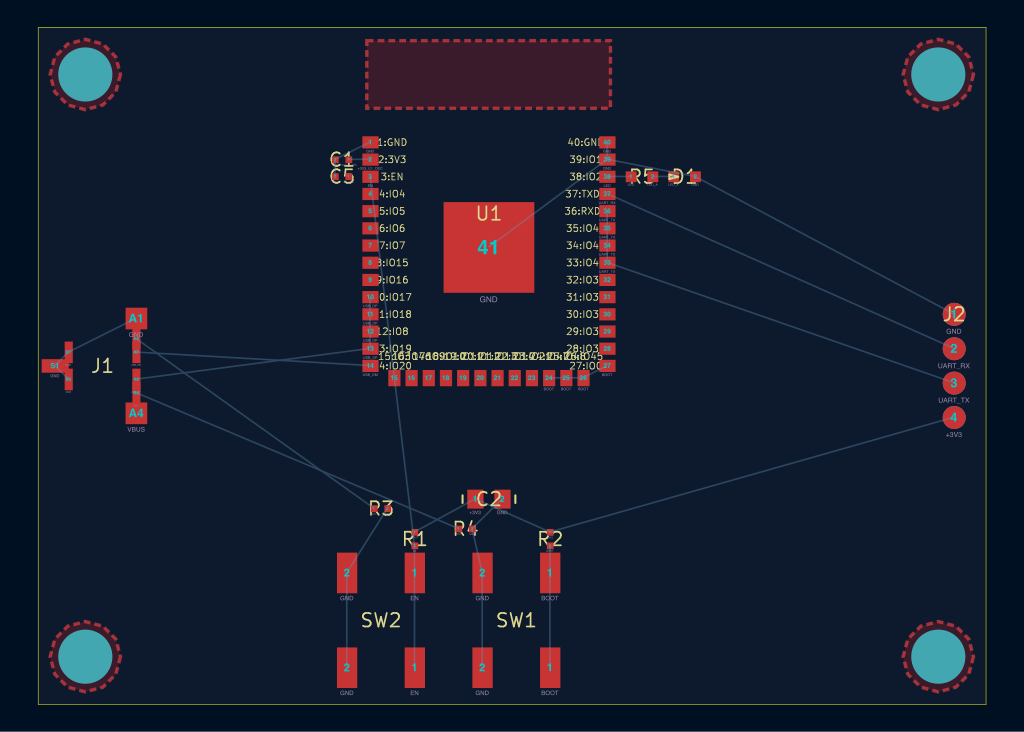
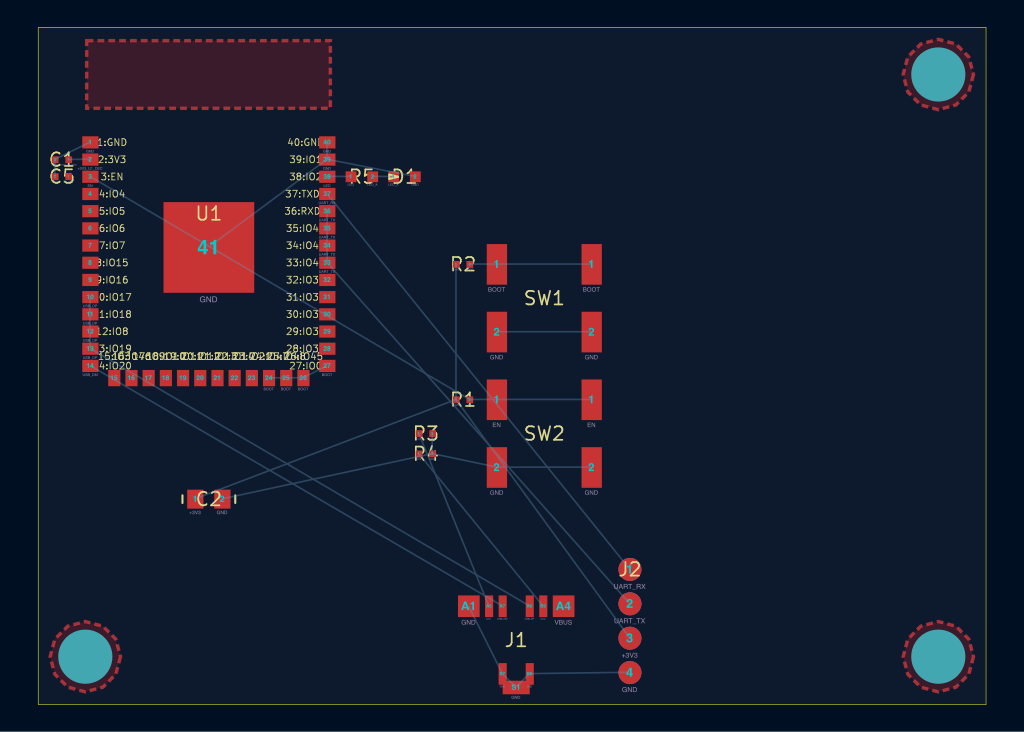
feat(placement_v2): edge-pinned cells lift whole; edge force-place
Floorplan iteration on nl-s-3c (129 components) — structural Gate A
violations cleared (72 -> 52, zero forefield/EdgePin/keepout left):

- pipeline: EVERY edge-pinned cell lifts to board level, not just
  singletons — a multi-member harness-terminal cell stayed in its
  functional group and stranded 23mm inland with the analog group in
  its forefield (45 violations from ONE decision); the ESP32 cell now
  claims its own edge with its decoupling island aboard. body_dirs aim
  by the PINNED member's opening, rotated by its in-cell pose.
- floorplan: when NO edge has a free interval, the connector force-
  places flush on its preferred edge and legalization pushes interior
  groups (edge presence is the hard constraint; 'stays put' was
  polite but wrong). Openingless headers lay their long axis ALONG
  the edge (a 1x14 header sat flush but perpendicular, 37mm deep).
  Edge choice prefers the pose needing NO rotation — rotating an
  ESP32 to a nearer edge flips its pin geometry against every
  ordered header pinout.
- mcu trainer: J2 pinout recomputed for the new (south-edge) pose —
  free-pin orders are placement-coupled; the fanout permutation
  optimizer is the documented recompute path. All 5 trainers green.

nl-s-3c remaining: 42 fanout crossings + 6 bundle crossings at FIXED-
pinout connectors (engine harness J1 -> relay row, display header J14
-> ESP32) + 4 near-miss chain bounds. Those pinouts are external
[…]

diff --git a/src/kicad_pipeline/placement_v2/floorplan.py b/src/kicad_pipeline/placement_v2/floorplan.py
@@ -746,7 +746,24 @@ def _place_conn_groups(
             Edge.NORTH: b0[1], Edge.SOUTH: bh - b0[3],
         }
         pref = preferred.get(cells[i].cell.name)
-        edges = sorted(Edge, key=lambda e: (e is not pref, dists[e], e.value))
+        bdir0 = body_dirs.get(cells[i].cell.name)
+
+        def _needs_rotation(e: Edge) -> bool:
+            """Does facing *e* require rotating away from the current pose?
+
+            Rotation stability: an ESP32 whose antenna already points
+            north should claim the north edge over a nearer west edge —
+            rotating flips its pin geometry relative to every already-
+            ordered header pinout (mcu_core regression, 2026-06-11).
+            """
+            if bdir0 is None:
+                return False
+            nx, ny = normals[e]
+            return bdir0[0] * nx + bdir0[1] * ny < 1e-9
+
+        edges = sorted(
+            Edge, key=lambda e: (e is not pref, _needs_rotation(e), dists[e], e.value),
+        )
         for edge in edges:
             pc = cells[i]
             bdir = body_dirs.get(pc.cell.name)
@@ -762,6 +779,16 @@ def _place_conn_groups(
                     if dot > best_dot + 1e-9:
                         best_dot, best_rot = dot, rot
                 pc = pc.rotated(best_rot)
+            else:
+                # No opening (symmetric pin header): lay the LONG axis
+                # along the edge — a 1x14 header once sat flush south
+                # but rotated perpendicular, jutting 37mm into the
+                # board (nl-s-3c, 2026-06-11).
+                bb0 = polygon_bbox(pc.polygon_in_board())
+                tall = (bb0[3] - bb0[1]) > (bb0[2] - bb0[0])
+                wants_horizontal = edge in (Edge.NORTH, Edge.SOUTH)
+                if tall == wants_horizontal:
+                    pc = pc.rotated(90)
             b = polygon_bbox(pc.polygon_in_board())
             horizontal = edge in (Edge.NORTH, Edge.SOUTH)
             span = (b[2] - b[0]) if horizontal else (b[3] - b[1])
@@ -807,7 +834,39 @@ def _place_conn_groups(
                 if abs(pos - cur_lo) < best_dist - 1e-9:
                     best_dist, best_pos = abs(pos - cur_lo), pos
             if best_pos is None:
-                continue  # no room on this edge: try the next
+                if edge is not edges[-1]:
+                    continue  # no room on this edge: try the next
+                # NO edge has a free interval: force-place flush on the
+                # PREFERRED edge at the nearest along-position anyway —
+                # edge presence is the hard constraint; the overlap is
+                # pushed onto INTERIOR groups by legalization (conn
+                # groups are pinned). 'Stays put' once stranded a 6-pin
+                # harness terminal 23mm inland with a whole group in
+                # its forefield (nl-s-3c, 2026-06-11).
+                edge = pref if pref is not None else edges[0]
+                pc = cells[i]
+                bdir2 = body_dirs.get(pc.cell.name)
+                if bdir2 is not None:
+                    nx, ny = normals[edge]
+                    fb_rot: CardinalRotation = 0
+                    fb_dot = -float("inf")
+                    for rot in _ROTATIONS:
+                        pts = transform_polygon(
+                            (Point(bdir2[0], bdir2[1]),), 0.0, 0.0, -float(rot),
+                        )
+                        dot = pts[0].x * nx + pts[0].y * ny
+                        if dot > fb_dot + 1e-9:
+                            fb_dot, fb_rot = dot, rot
+                    pc = pc.rotated(fb_rot)
+                b = polygon_bbox(pc.polygon_in_board())
+                horizontal = edge in (Edge.NORTH, Edge.SOUTH)
+                span = (b[2] - b[0]) if horizontal else (b[3] - b[1])
+                limit = bw if horizontal else bh
+                cur_lo = b[0] if horizontal else b[1]
+                best_pos = min(
+                    max(cur_lo, _EDGE_MARGIN_MM),
+                    limit - _EDGE_MARGIN_MM - span,
+                )
             # Flush at the edge, at the chosen along-position.
             if horizontal:
                 pc = pc.moved_to(pc.dx + (best_pos - b[0]), pc.dy)

diff --git a/src/kicad_pipeline/placement_v2/pipeline.py b/src/kicad_pipeline/placement_v2/pipeline.py
@@ -17,6 +17,7 @@ Coordinate conventions at the boundary:
 from __future__ import annotations
 
 import logging
+import math
 from dataclasses import dataclass, field
 from typing import TYPE_CHECKING
 
@@ -471,18 +472,20 @@ def run_placement_v2(
     edge_pinned = frozenset(ep.ref for ep in constraints.edge_pins)
     seq_refs = frozenset(r for s in constraints.sequences for r in s.refs)
     by_group: dict[str, list[Cell]] = {}
-    lifted: list[Cell] = []
+    lifted: list[tuple[str, Cell]] = []  # (pinned ref, cell)
     for cell in cells:
-        # LONE edge-pinned connectors outside a ladder strip become
-        # board-level groups of their own: the group snap can only
-        # satisfy ONE edge per group, so each free connector must be
-        # free to find its own edge (USB north, power south, ...).
-        # Multi-member cells (a connector with its ESD island) stay in
-        # their functional group — splitting them would break their
-        # own attachment bounds.
-        if (len(cell.refs) == 1 and (cell.refs & edge_pinned)
-                and not (cell.refs & seq_refs)):
-            lifted.append(cell)
+        # EVERY edge-pinned cell outside a ladder strip becomes a
+        # board-level group of its own: the group snap can only satisfy
+        # ONE edge per group, so each connector (and each RF module
+        # with its decoupling island) must be free to find its own
+        # edge. Multi-member cells lift WHOLE — their internal bounds
+        # travel with them. Keeping them in functional groups stranded
+        # a 6-pin harness terminal 23mm inland with the analog group in
+        # its forefield, and left the ESP32 antenna mid-board
+        # (nl-s-3c, 2026-06-11).
+        pinned = sorted(cell.refs & edge_pinned)
+        if pinned and not (cell.refs & seq_refs):
+            lifted.append((pinned[0], cell))
         else:
             by_group.setdefault(
                 _group_for(cell.refs, requirements), []
@@ -501,25 +504,30 @@ def run_placement_v2(
         )
         for gname, gcells in sorted(by_group.items())
     ) + tuple(
-        pack_group(f"conn:{sorted(cell.refs)[0]}", (cell,))
-        for cell in sorted(lifted, key=lambda c: c.name)
+        pack_group(f"conn:{ref}", (cell,))
+        for ref, cell in sorted(lifted, key=lambda rc: rc[0])
     )
     # Connector opening direction: lets the edge snap ROTATE each
-    # lifted connector so its opening faces outward (Gate A face_out).
+    # lifted cell so its opening faces outward (Gate A face_out).
     # The CALIBRATED part-rule opening wins; the courtyard-bulge proxy
     # is only a fallback — for USB-C the bulge points the WRONG way
     # (pads sit mid-body) and the proxy snapped the jack mouth toward
-    # the board interior (Gate C 2026-06-11 item 4c).
+    # the board interior (Gate C 2026-06-11 item 4c). Both are the
+    # PINNED member's direction, rotated by its in-cell rotation and
+    # offset to the member's position so multi-member cells aim by
+    # their connector, not by an arbitrary first ref.
     body_dirs: dict[str, tuple[float, float]] = {}
-    for cell in lifted:
-        ref = sorted(cell.refs)[0]
+    for ref, cell in lifted:
+        member = next(m for m in cell.members if m.ref == ref)
         if ref in openings:
-            body_dirs[f"group:conn:{ref}"] = openings[ref]
-            continue
-        court = courtyard_polygon(footprints[ref])
-        bx = sum(pt.x for pt in court) / len(court)
-        by = sum(pt.y for pt in court) / len(court)
-        body_dirs[f"group:conn:{ref}"] = (bx, by)
+            ox, oy = openings[ref]
+        else:
+            court = courtyard_polygon(footprints[ref])
+            ox = sum(pt.x for pt in court) / len(court)
+            oy = sum(pt.y for pt in court) / len(court)
+        rad = math.radians(-member.rotation_deg)
+        c, s = math.cos(rad), math.sin(rad)
+        body_dirs[f"group:conn:{ref}"] = (ox * c - oy * s, ox * s + oy * c)
     obstacles = tuple(_obstacle_cell(n, poly) for n, poly in reserved_zones)
     plan = None
     try:

diff --git a/scripts/train_mcu_core.py b/scripts/train_mcu_core.py
@@ -371,15 +371,17 @@ def _make_uart_header() -> Component:
         lcsc=None,
         description="4-pin 2.54mm header — UART debug",
         pins=(
-            # Pin order mirrors each net's nearest physical target,
-            # top to bottom: GND (D1 cathode, top), RX (U1.37), TX
-            # (U1.36), +3V3 (R2 pull-up, bottom) — zero ratsnest
-            # crossings at the header, enforced by Gate A's
-            # connector-fanout check (human finding 2026-06-11).
-            Pin("1", "GND", PinType.PASSIVE, PinFunction.GND, net="GND"),
-            Pin("2", "RX", PinType.PASSIVE, net="UART_RX"),
-            Pin("3", "TX", PinType.PASSIVE, net="UART_TX"),
-            Pin("4", "3V3", PinType.PASSIVE, net="+3V3"),
+            # Pin order mirrors each net's nearest physical target at
+            # the built placement (J2 horizontal at the south edge):
+            # RX/TX toward U1's pin stack, then +3V3 (R1), GND (J1
+            # shell) outboard — zero ratsnest crossings, enforced by
+            # Gate A's connector-fanout check. NOTE: free-pin orders
+            # are placement-coupled; recompute with the fanout
+            # permutation optimizer whenever the floorplan changes.
+            Pin("1", "RX", PinType.PASSIVE, net="UART_RX"),
+            Pin("2", "TX", PinType.PASSIVE, net="UART_TX"),
+            Pin("3", "3V3", PinType.PASSIVE, net="+3V3"),
+            Pin("4", "GND", PinType.PASSIVE, PinFunction.GND, net="GND"),
         ),
     )
 
@@ -421,7 +423,7 @@ def _build_nets() -> tuple[Net, ...]:
                 NetConnection("C2", "1"),
                 NetConnection("R1", "1"),
                 NetConnection("R2", "1"),
-                NetConnection("J2", "4"),
+                NetConnection("J2", "3"),
             ),
         ),
         # --- Private decoupling subnet: C1 <-> U1 3V3 pin ---
@@ -448,7 +450,7 @@ def _build_nets() -> tuple[Net, ...]:
                 NetConnection("R3", "2"),
                 NetConnection("R4", "2"),
                 NetConnection("D1", "2"),
-                NetConnection("J2", "1"),
+                NetConnection("J2", "4"),
             ),
         ),
         Net(
@@ -499,14 +501,14 @@ def _build_nets() -> tuple[Net, ...]:
             name="UART_TX",
             connections=(
                 NetConnection("U1", "36"),
-                NetConnection("J2", "3"),
+                NetConnection("J2", "2"),
             ),
         ),
         Net(
             name="UART_RX",
             connections=(
                 NetConnection("U1", "37"),
-                NetConnection("J2", "2"),
+                NetConnection("J2", "1"),
             ),
         ),
         Net(
